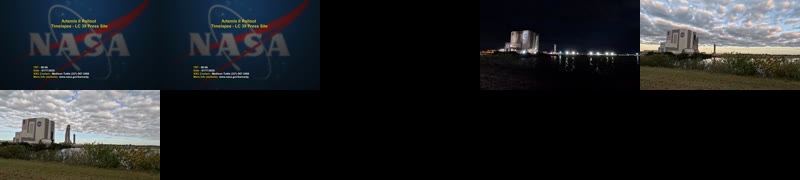
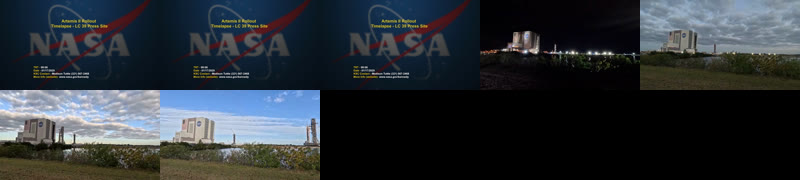
align thumbs correctly

diff --git a/index.html b/index.html
@@ -860,7 +860,7 @@ frames at the size the box should be.</p>
 <p>Cutting them is one command —
 <a href="https://github.com/stamat/media-player/blob/main/script/thumbs"><code>script/thumbs</code></a> in this
 repository, a bash script over <code>ffmpeg</code> and <code>ffprobe</code>, which is what wrote both sprites
-the players above hover — the twelve-minute film cuts to 73 frames in a 308 KB sheet:</p>
+the players above hover — the twelve-minute film cuts to 74 frames in a 332 KB sheet:</p>
 <pre><code class="hljs language-bash">script/thumbs movie.mp4          <span class="hljs-comment"># movie-thumbs.jpg + movie-thumbs.vtt, a frame every 5 s</span>
 script/thumbs movie.mp4 2 160 5  <span class="hljs-comment"># every 2 s, 160px wide, 5 to a sprite row</span></code></pre>
 <p>Copy it out of the repository — it is not in the npm package, because a bash script in a

diff --git a/src/markup/index.md b/src/markup/index.md
@@ -872,7 +872,7 @@ frames at the size the box should be.
 Cutting them is one command —
 [`script/thumbs`](https://github.com/stamat/media-player/blob/main/script/thumbs) in this
 repository, a bash script over `ffmpeg` and `ffprobe`, which is what wrote both sprites
-the players above hover — the twelve-minute film cuts to 73 frames in a 308 KB sheet:
+the players above hover — the twelve-minute film cuts to 74 frames in a 332 KB sheet:
 
 ```bash
 script/thumbs movie.mp4          # movie-thumbs.jpg + movie-thumbs.vtt, a frame every 5 s
